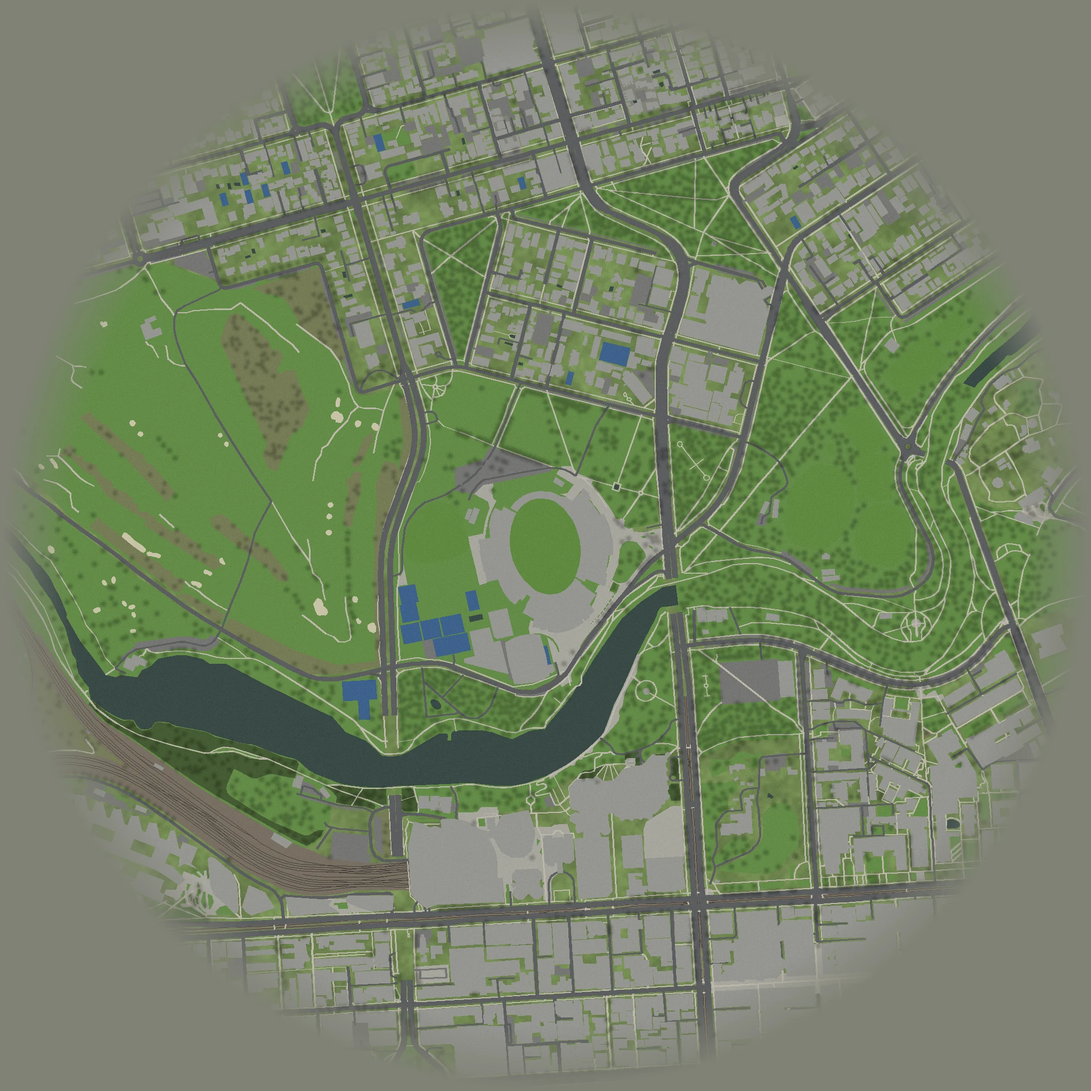
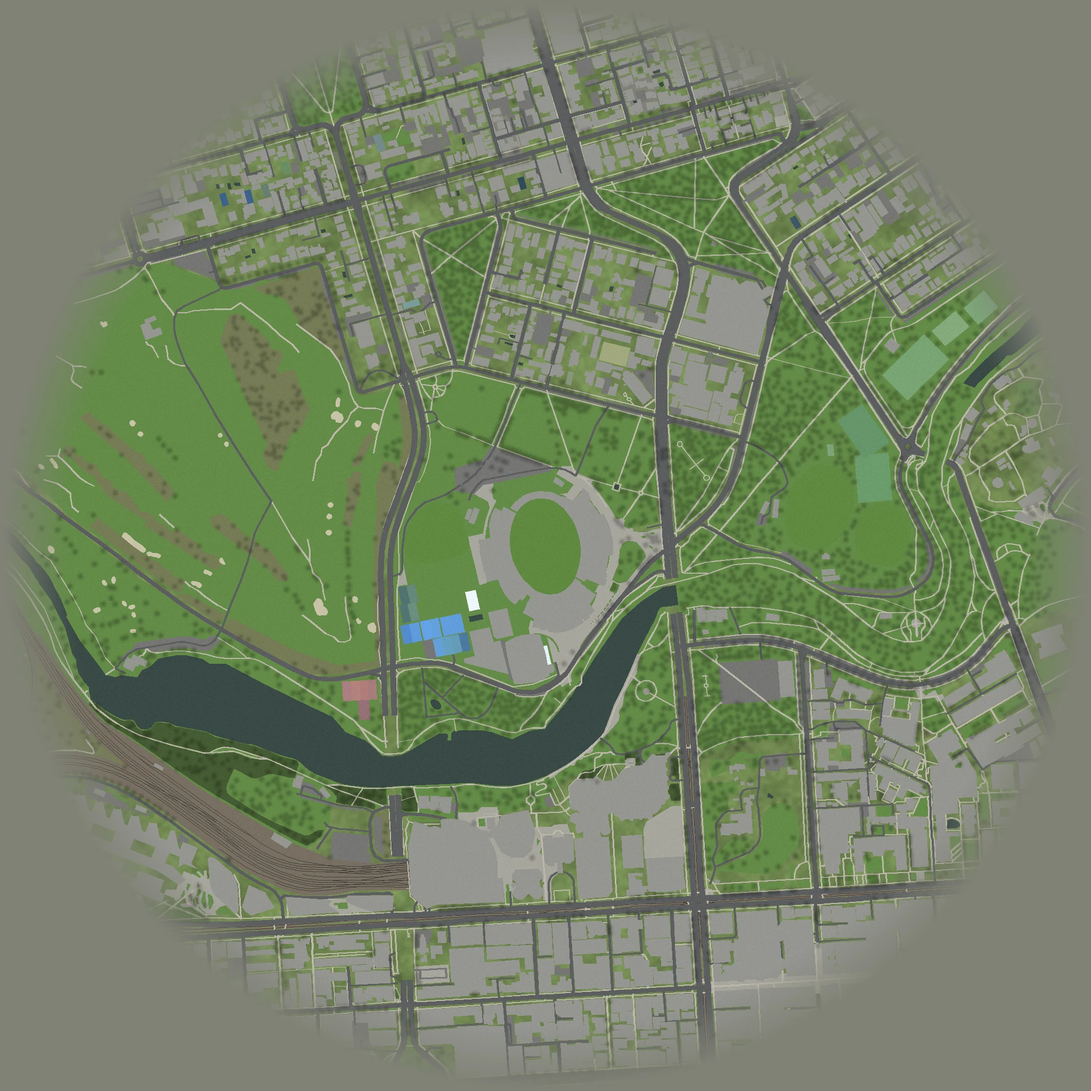
Adelaide surrounds: each sports pitch painted its Google Earth colour
Memorial Drive's grass tennis courts were blue (OSM tags them as hard courts); roof_colours.py now also reads each
pitch's median colour (pitch_colours.json) and surrounds.py paints it.

Claude-Session: https://claude.ai/code/session_019pCf9a74bNuYNbnCtWvAjY

diff --git a/tools/grounds/adelaide/roof_colours.py b/tools/grounds/adelaide/roof_colours.py
@@ -7,7 +7,8 @@ by the west face terracotta where Google Earth shows white and grey iron).
   python3 tools/grounds/adelaide/roof_colours.py read  # needs shapely (the bpy env has it) <workdir> [osm files as surrounds.py takes them]
 
 `read` writes roof_colours.json beside this file: OSM way id -> the median colour of the roof inside its footprint
-(shrunk 1 m, green tree pixels left out), one number per building, no imagery. surrounds.py uses it before its palette.
+(shrunk 1 m, green tree pixels left out), one number per building, no imagery; and pitch_colours.json, each sports
+pitch's surface the same way (Memorial Drive's grass courts are tagged as hard ones). surrounds.py uses it before its palette.
 The camera is ge_compare.py's, measured 2026-11-22: 35 degrees vertical over the 1000 px window, the 720-row crop
 centred on it; a roof h metres up sits F / (range - h) pixels a metre from the shot's centre."""
 import json, math, os, sys
@@ -55,9 +56,10 @@ def read(work, osm):
     extra = osm[1:] if len(osm) > 1 else [p for p in (["/tmp/adelaide_cbd_%d.osm" % i for i in range(len(S.CBD_TILES))]
                                                         + ["/tmp/adelaide_rel_%d.osm" % r for r in S.RELATIONS]) if os.path.exists(p)]
     _, ways = S.load(path, extra)
-    out = {}
+    out = {}; pitches = {}
     for t, p in ways:
-        if "building" not in t or "_id" not in t or len(p) < 4 or p[0] != p[-1]:
+        pitch = t.get("leisure") == "pitch"   # a pitch's own surface colour too (grass tennis courts tagged as hard ones)
+        if not ("building" in t or pitch) or "_id" not in t or len(p) < 4 or p[0] != p[-1]:
             continue
         a = np.array(p[:-1], float)
         if np.hypot(*a.mean(0)) > REACH:
@@ -65,7 +67,7 @@ def read(work, osm):
         g = Polygon(a).buffer(-1.0)
         if g.is_empty or g.area < 12:
             continue
-        h = S.building_height(t)
+        h = 0.0 if pitch else S.building_height(t)
         k = F / (RANGE - h)
         best = None
         for i, (ce, cn) in enumerate(C):   # the shot whose centre is nearest, if the roof is wholly in its crop
@@ -90,12 +92,16 @@ def read(work, osm):
         c = im[np.asarray(mk, bool)]
         if len(c) < 6:
             continue
+        if pitch:
+            pitches[t["_id"]] = [int(v) for v in np.median(c, axis=0)]
+            continue
         leaf = (c[:, 1] > c[:, 0] + 12) & (c[:, 1] > c[:, 2] + 12)   # tree crowns over the roof
         if (~leaf).sum() < 6:
             continue
         out[t["_id"]] = [int(v) for v in np.median(c[~leaf], axis=0)]
     json.dump(out, open(os.path.join(HERE, "roof_colours.json"), "w"), separators=(",", ":"), sort_keys=True)
-    print(len(out), "roof colours from", len(shots), "shots")
+    json.dump(pitches, open(os.path.join(HERE, "pitch_colours.json"), "w"), separators=(",", ":"), sort_keys=True)
+    print(len(out), "roof colours and", len(pitches), "pitch colours from", len(shots), "shots")
 
 
 if __name__ == "__main__":

diff --git a/tools/grounds/adelaide/surrounds.py b/tools/grounds/adelaide/surrounds.py
@@ -176,6 +176,8 @@ def area_colour(t):
         return SAND
     if t.get("amenity") == "parking" and t.get("parking") not in ("underground", "multi-storey"):
         return PARKING
+    if t.get("leisure") == "pitch" and t.get("_id") in GE_PITCHES:   # its surface as Google Earth shows it
+        return tuple(GE_PITCHES[t["_id"]])
     if t.get("leisure") == "pitch" and t.get("sport") == "tennis":
         return TENNIS
     if t.get("leisure") == "pitch":
@@ -442,6 +444,8 @@ CITY_WALLS = [(200, 200, 196), (168, 176, 182), (214, 210, 200), (140, 150, 160)
 # no imagery kept); the palette above only for roofs outside its shots or under trees.
 _RC = os.path.join(os.path.dirname(os.path.abspath(__file__)), "roof_colours.json")
 GE_ROOFS = json.load(open(_RC)) if os.path.exists(_RC) else {}
+_PC = os.path.join(os.path.dirname(os.path.abspath(__file__)), "pitch_colours.json")
+GE_PITCHES = json.load(open(_PC)) if os.path.exists(_PC) else {}
 
 
 def _colour(v):
